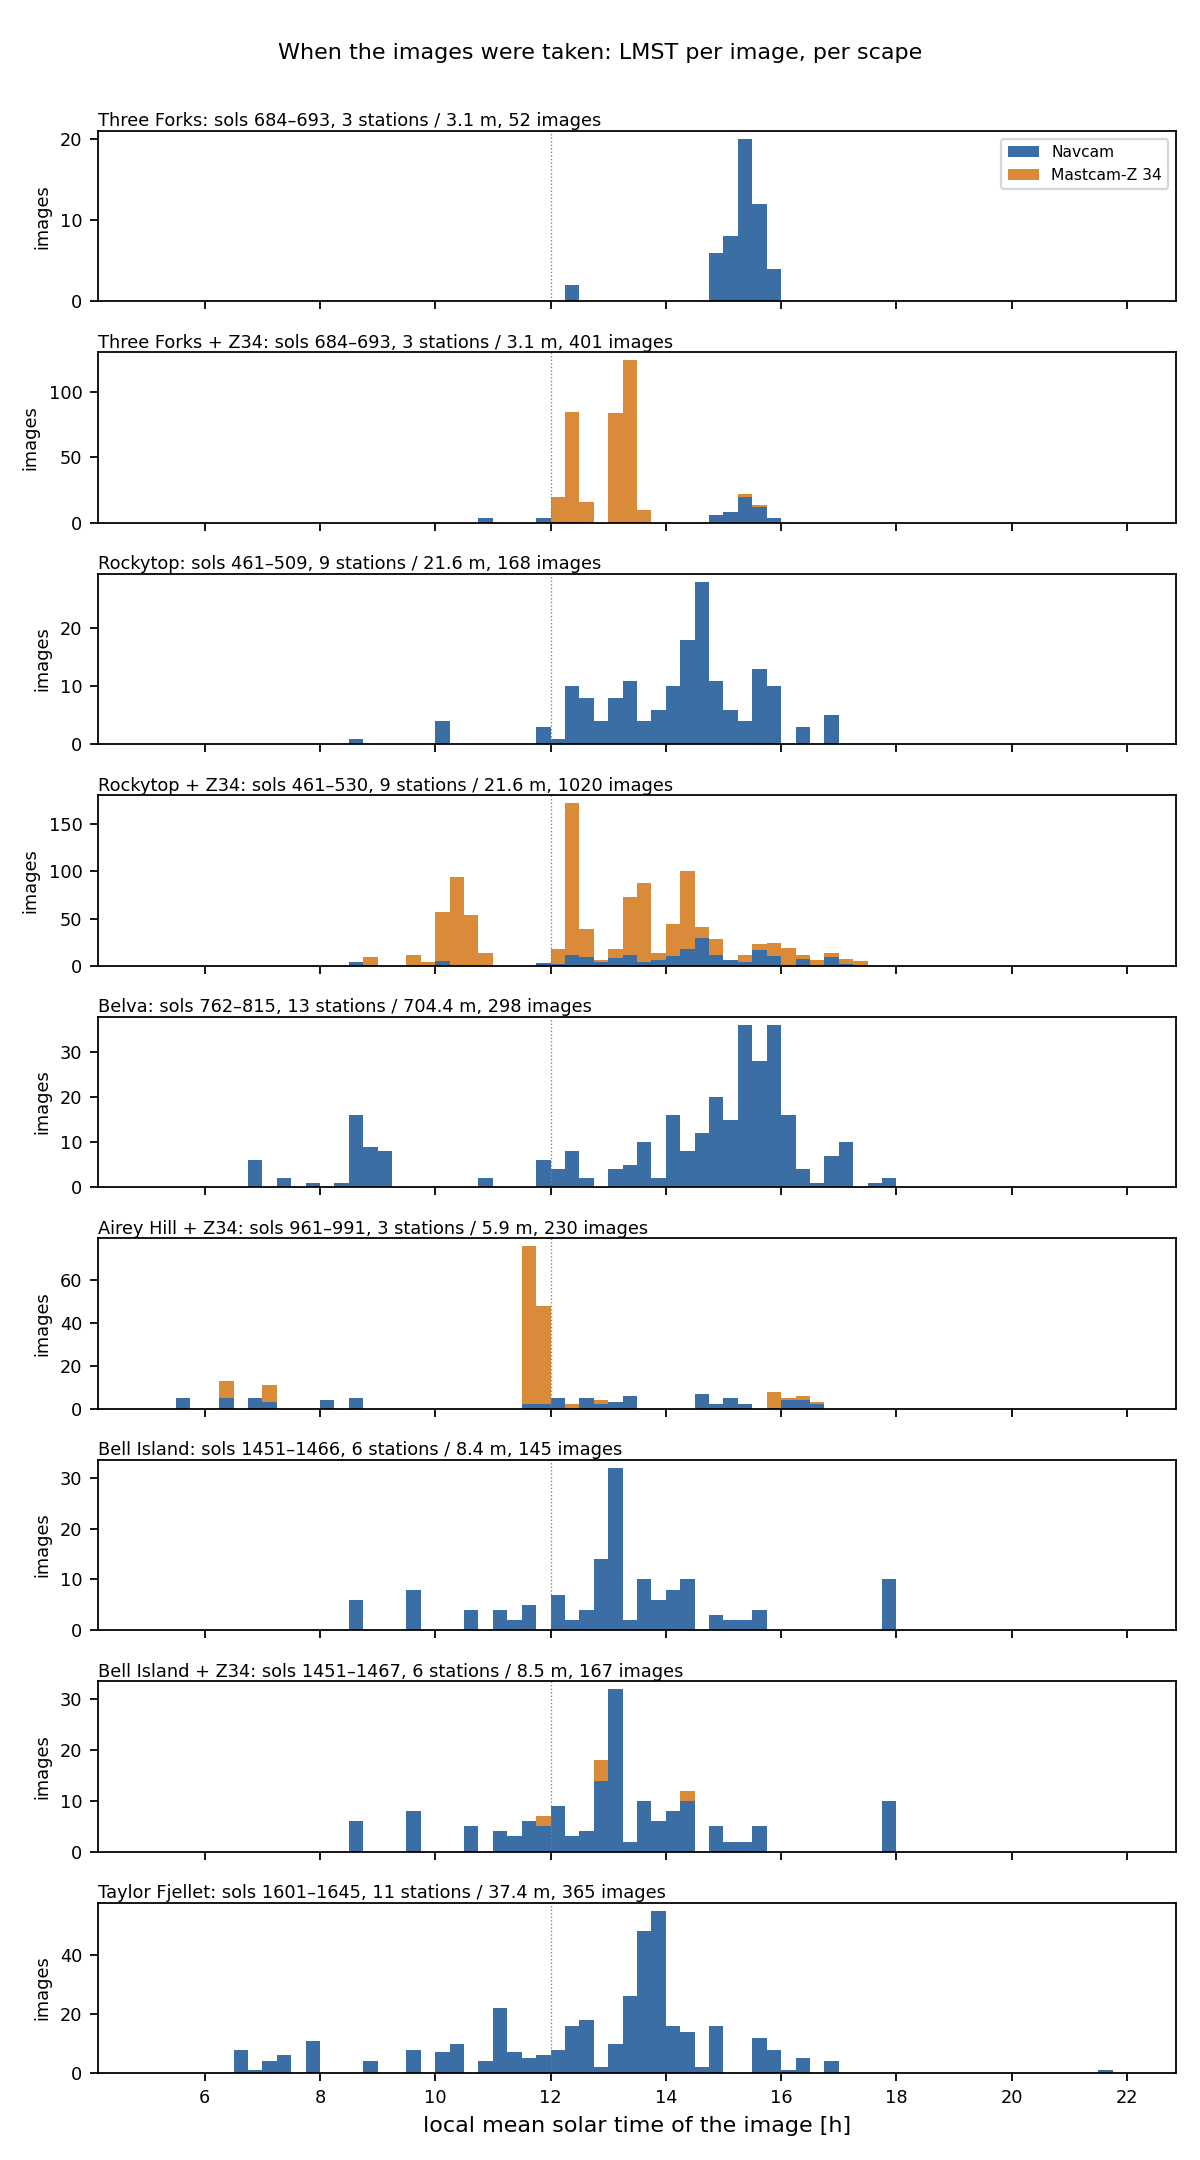
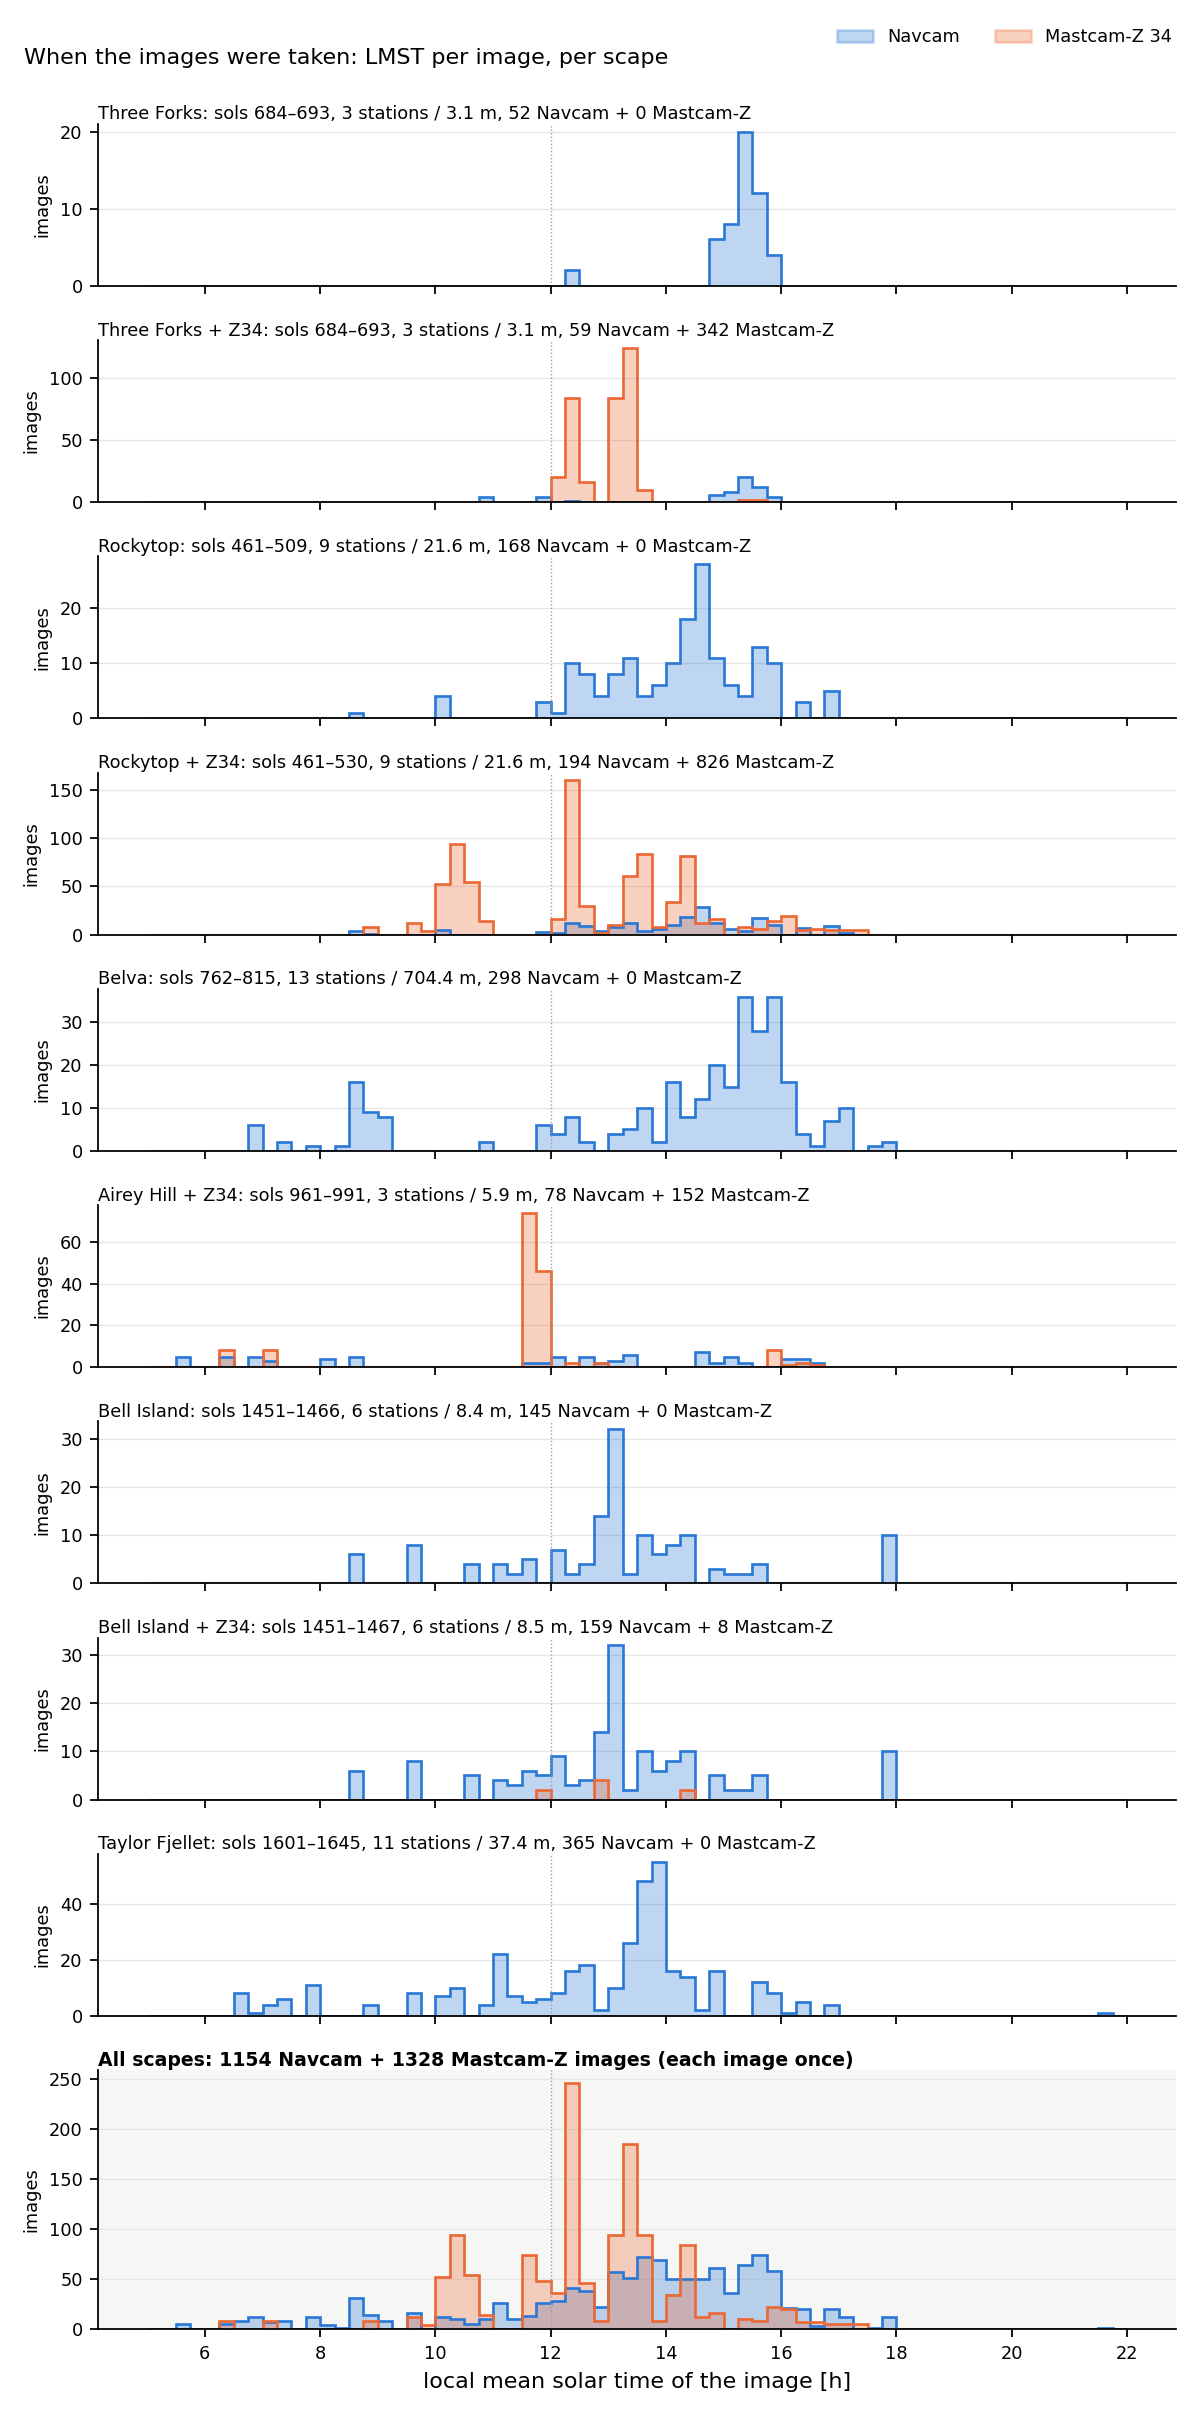
sites_table: overlaid translucent LMST histograms per camera, aggregate row of all scapes (each image once)
Claude-Session: https://claude.ai/code/session_0189eGM4ciTaPpX6miaJRrqV

diff --git a/scripts/sites_table.py b/scripts/sites_table.py
@@ -78,23 +78,53 @@ for r in rows:
 (out / "sites.md").write_text("\n".join(md) + "\n", encoding="utf-8")
 print("\n".join(md))
 
-# histogram: small multiples, one row per scape, LMST 6-20 h in 15-min bins; Navcam vs Mastcam-Z stacked
-fig, axes = plt.subplots(len(SCAPES), 1, figsize=(7.5, 1.5 * len(SCAPES)), sharex=True)
+# histogram: small multiples, one row per scape, then one row with every image of every scape (each image once);
+# Navcam and Mastcam-Z overlaid (not stacked) as translucent fills with a solid outline, so both stay readable
+NAV_C, ZC_C = "#2a78d6", "#eb6834"          # categorical slots 1 and 2 (dataviz reference palette)
+FILL_ALPHA = 0.30
 bins = np.arange(5, 22.01, 0.25)
+
+
+def overlaid(ax, series):
+    for vals, color, lab in series:
+        if len(vals):
+            ax.hist(vals, bins=bins, color=color, alpha=FILL_ALPHA, label=lab)
+            ax.hist(vals, bins=bins, histtype="step", color=color, lw=1.2)
+    ax.axvline(12, color="0.6", lw=0.6, ls=":")
+    ax.grid(axis="y", color="0.9", lw=0.6); ax.set_axisbelow(True)
+    for sp in ("top", "right"):
+        ax.spines[sp].set_visible(False)
+    ax.set_ylabel("images", fontsize=8); ax.tick_params(labelsize=8)
+
+
+n = len(SCAPES) + 1
+fig, axes = plt.subplots(n, 1, figsize=(7.5, 1.45 * n + 0.6), sharex=True,
+                         gridspec_kw={"height_ratios": [1] * len(SCAPES) + [1.6]})
+seen = {}                                     # stem -> (family, lmst): an image in two scapes counts once
 for ax, (label, root, ver, what) in zip(axes, SCAPES):
     d = json.load(open(f"{root}/processed/mppp_manifest_{ver}.json"))["images"]
     lmN = [lmst_hours(r.get("LMST")) for r in d if r["filename"]["family"] == "N"]
     lmZ = [lmst_hours(r.get("LMST")) for r in d if r["filename"]["family"] == "Z"]
-    ax.hist([lmN, lmZ], bins=bins, stacked=True, color=["#3b6ea5", "#d98b3a"], label=["Navcam", "Mastcam-Z 34"])
-    ax.axvline(12, color="0.5", lw=0.6, ls=":")
+    for r in d:
+        seen[r["filename"]["stem"]] = (r["filename"]["family"], lmst_hours(r.get("LMST")))
+    overlaid(ax, [(lmN, NAV_C, "Navcam"), (lmZ, ZC_C, "Mastcam-Z 34")])
     r = next(x for x in rows if x["scape"] == label)
-    ax.set_title(f"{label}: sols {r['sols']}, {r['stations']} stations / {r['span_m']:g} m, {r['images']} images",
-                 loc="left", fontsize=8, pad=2)
-    ax.set_ylabel("images", fontsize=8); ax.tick_params(labelsize=8)
-axes[0].legend(fontsize=7, loc="upper right")
+    ax.set_title(f"{label}: sols {r['sols']}, {r['stations']} stations / {r['span_m']:g} m, "
+                 f"{r['navcam']} Navcam + {r['mastcam_z']} Mastcam-Z", loc="left", fontsize=8, pad=2)
+allN = [v for f_, v in seen.values() if f_ == "N" and np.isfinite(v)]
+allZ = [v for f_, v in seen.values() if f_ == "Z" and np.isfinite(v)]
+ax = axes[-1]
+overlaid(ax, [(allN, NAV_C, "Navcam"), (allZ, ZC_C, "Mastcam-Z 34")])
+ax.set_title(f"All scapes: {len(allN)} Navcam + {len(allZ)} Mastcam-Z images (each image once)",
+             loc="left", fontsize=8.5, pad=2, fontweight="bold")
+ax.set_facecolor("#f6f6f4")
+from matplotlib.patches import Patch
+fig.legend(handles=[Patch(facecolor=c, alpha=FILL_ALPHA, edgecolor=c, lw=1.2, label=l)
+                    for c, l in ((NAV_C, "Navcam"), (ZC_C, "Mastcam-Z 34"))],
+           loc="upper right", fontsize=8, frameon=False, ncol=2, bbox_to_anchor=(0.99, 0.995))
 axes[-1].set_xlabel("local mean solar time of the image [h]")
 axes[-1].set_xticks(range(6, 23, 2))
-fig.suptitle("When the images were taken: LMST per image, per scape", fontsize=10)
-fig.tight_layout(rect=(0, 0, 1, 0.98))
+fig.suptitle("When the images were taken: LMST per image, per scape", fontsize=10, x=0.02, ha="left")
+fig.tight_layout(rect=(0, 0, 1, 0.985))
 fig.savefig(out / "sites_lmst.png", dpi=160)
-print("wrote", out / "sites_lmst.png")
+print("wrote", out / "sites_lmst.png", "| aggregate:", len(allN), "Navcam,", len(allZ), "Mastcam-Z unique images")
